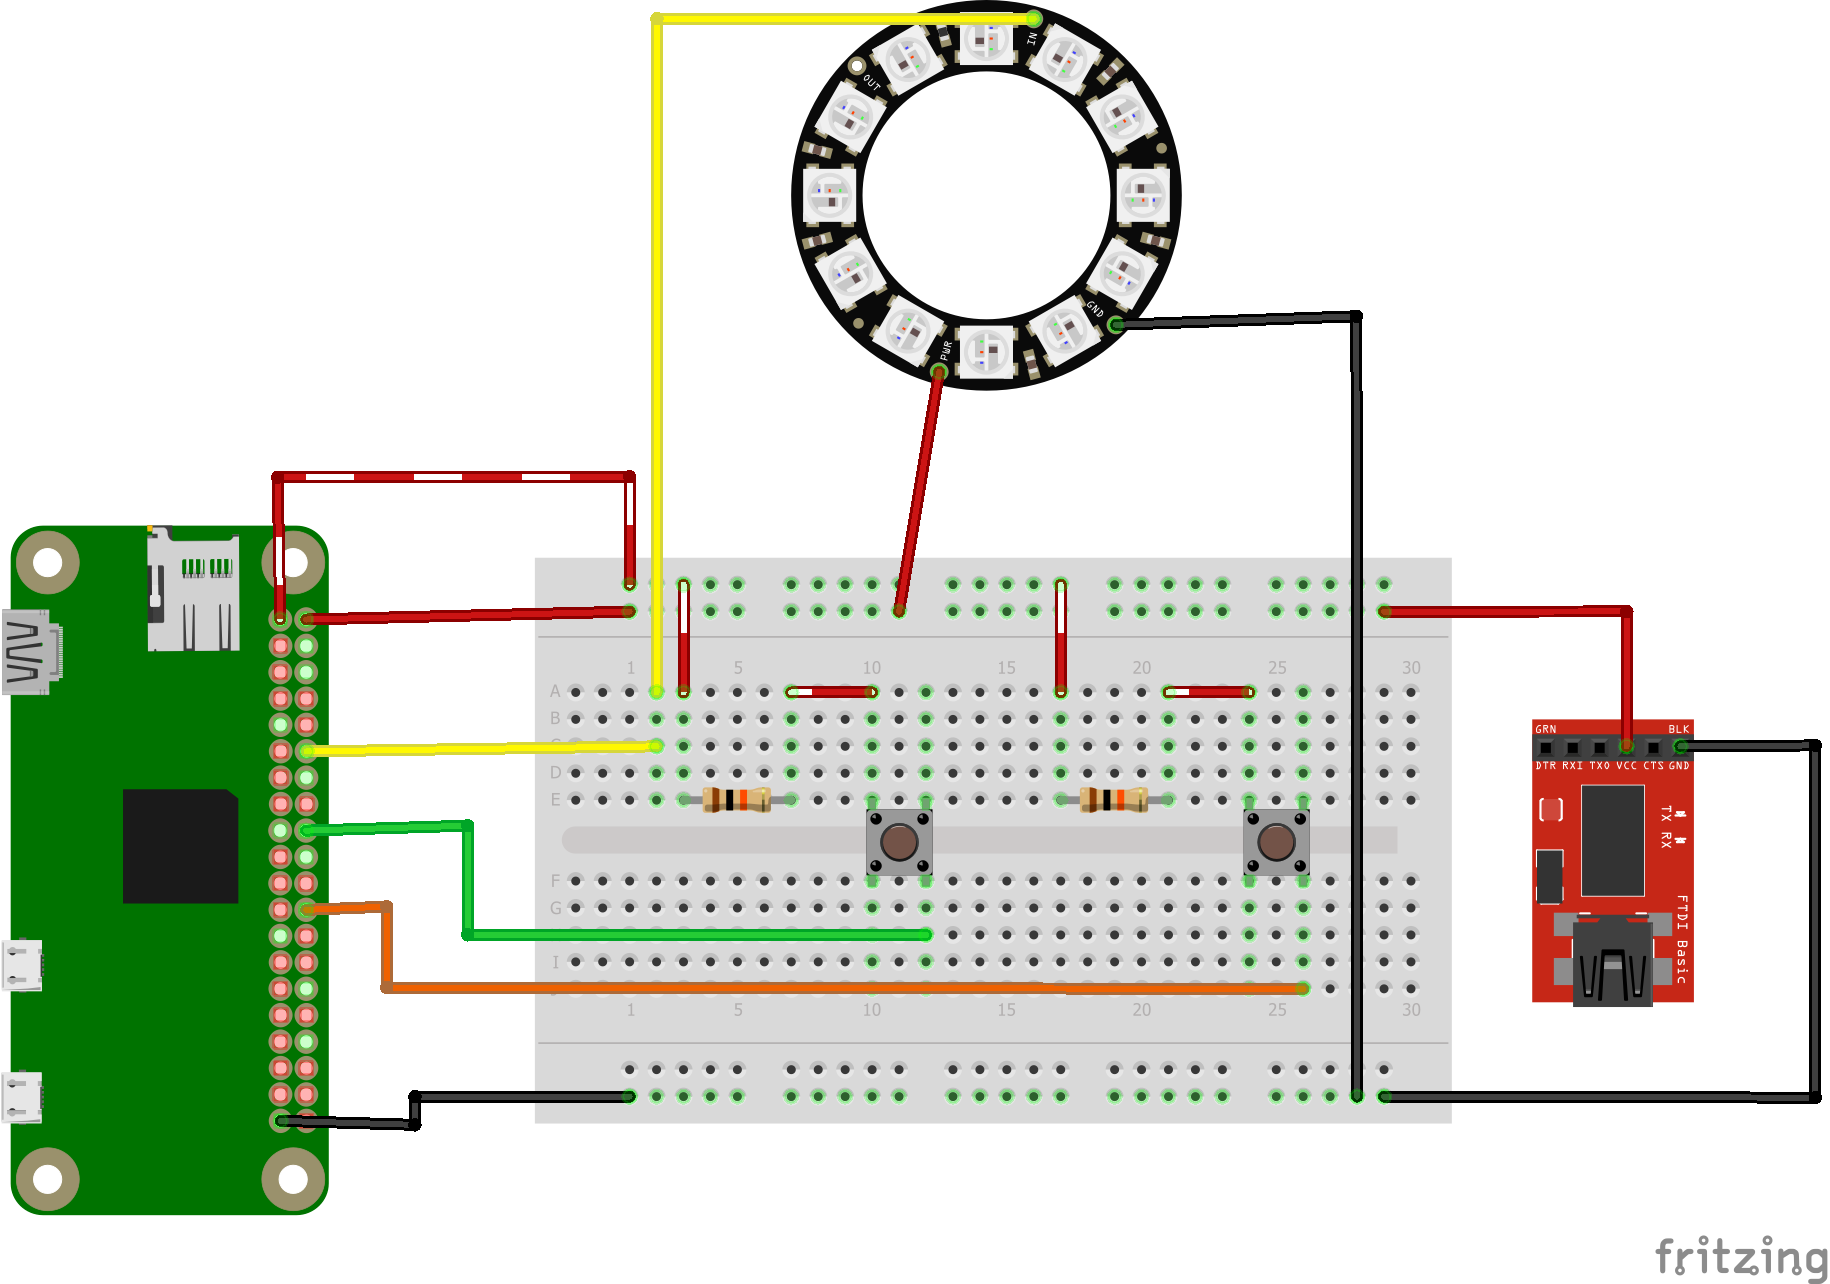
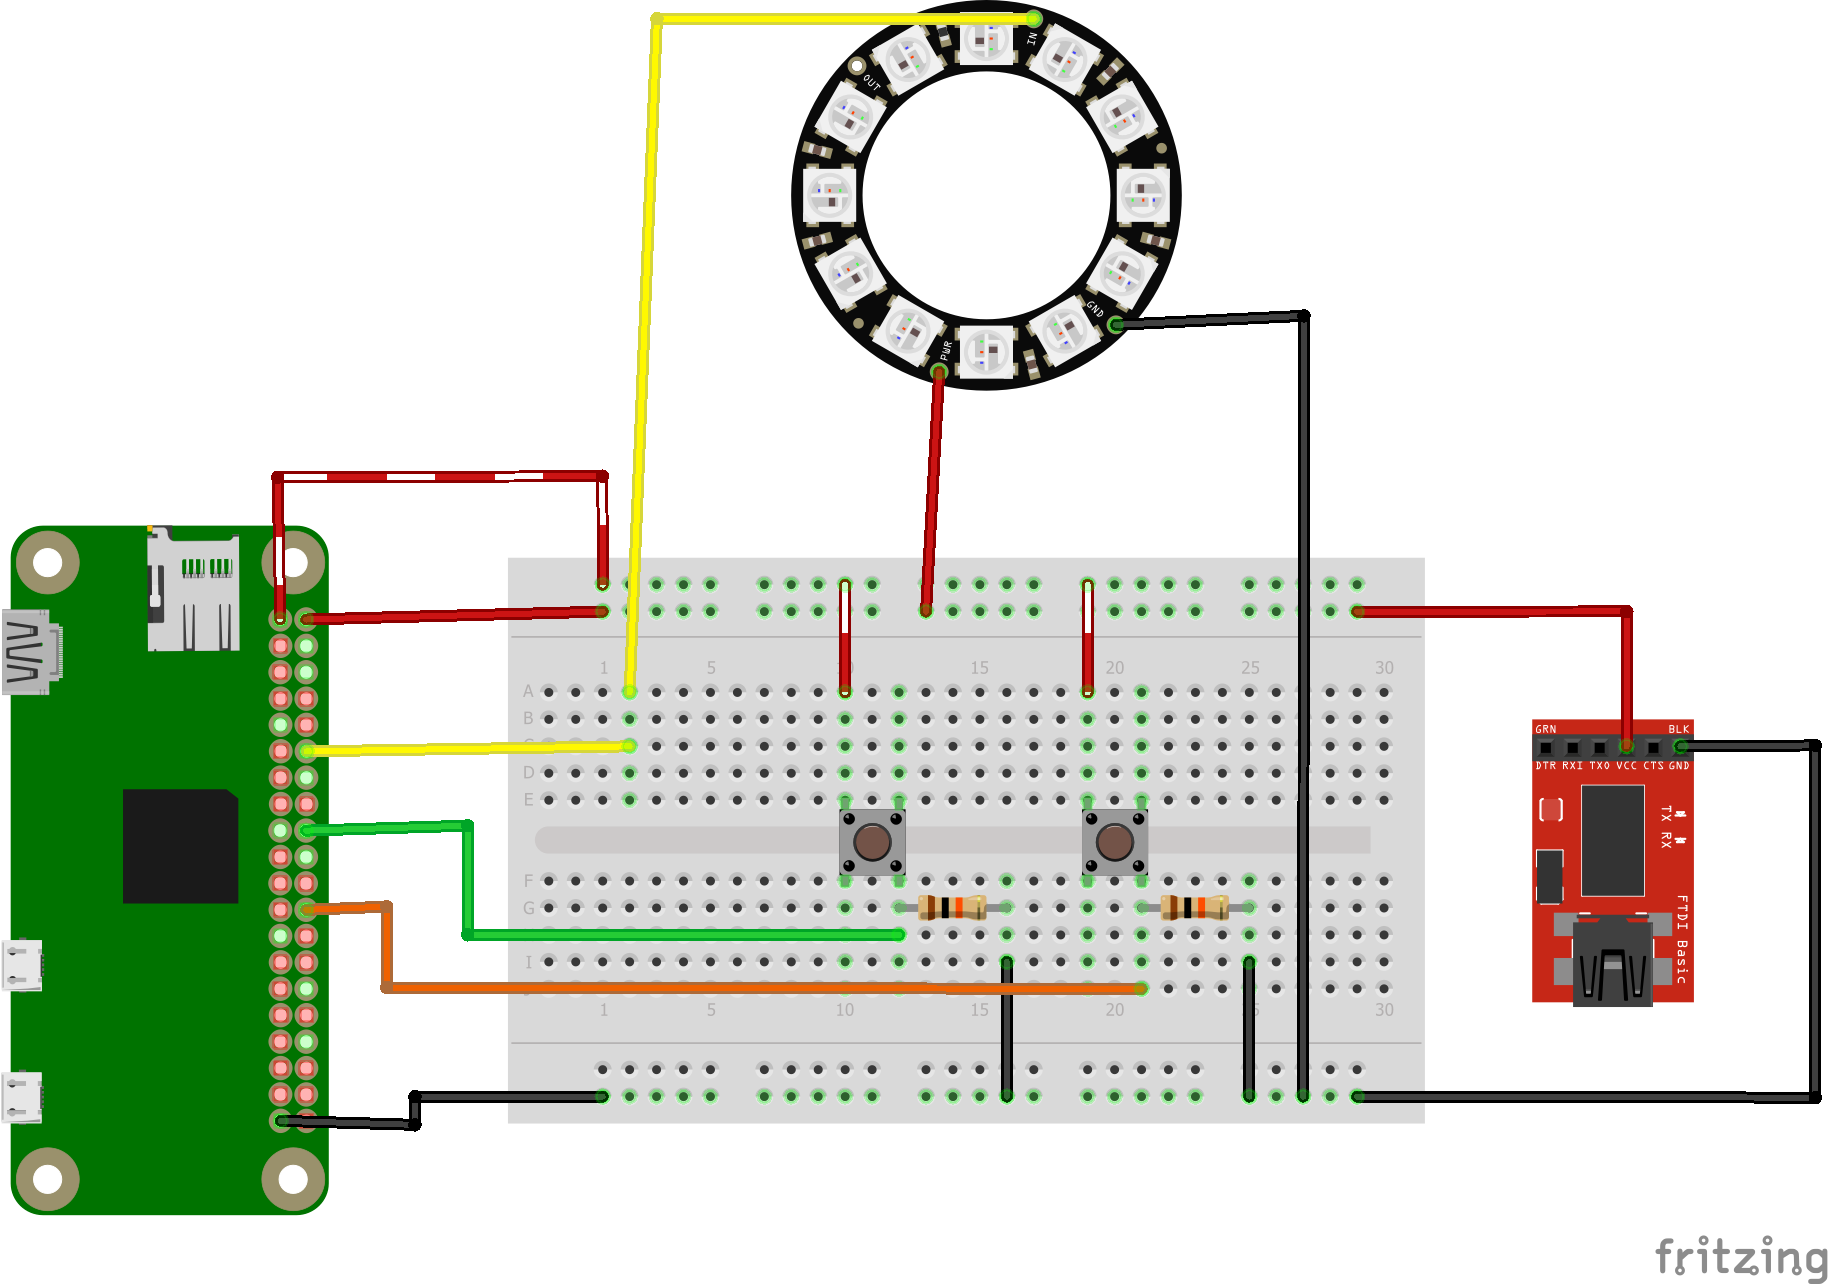
Updated readme for new circuit diagram (correct resistor layout) and added link to adafruit tutorial.

Changed region(s): [[0.5607, 0.2181, 0.8098, 0.8723], [0.2492, 0.0312, 0.5918, 0.8723], [0.4049, 0.8411, 0.4361, 0.8723]]

diff --git a/README.md b/README.md
@@ -47,7 +47,7 @@ The configuration of the LEDs is done by adjusting a few constants in `alarm.py`
 All the alarm configurations are specified in `config.json`. Copy `sample-config.json` and rename it to get started. The tags in the JSON file should be fairly self explanitory.
 
 ## Libraries
-This project uses [rpi_ws281x](https://github.com/jgarff/rpi_ws281x) to control the LEDs and [schedule](https://github.com/dbader/schedule) to start the alarms at a given time
+This project uses [rpi_ws281x](https://github.com/jgarff/rpi_ws281x) to control the LEDs (adafruit has a great [tutorial](https://learn.adafruit.com/neopixels-on-raspberry-pi/software) on getting setup with rpi_ws281x) and [schedule](https://github.com/dbader/schedule) to start the alarms at a given time
 
 ## Things to note
 * To make the script run on startup you should add the command to `rc.local` as per [these instructions](https://www.raspberrypi.org/documentation/linux/usage/rc-local.md).
